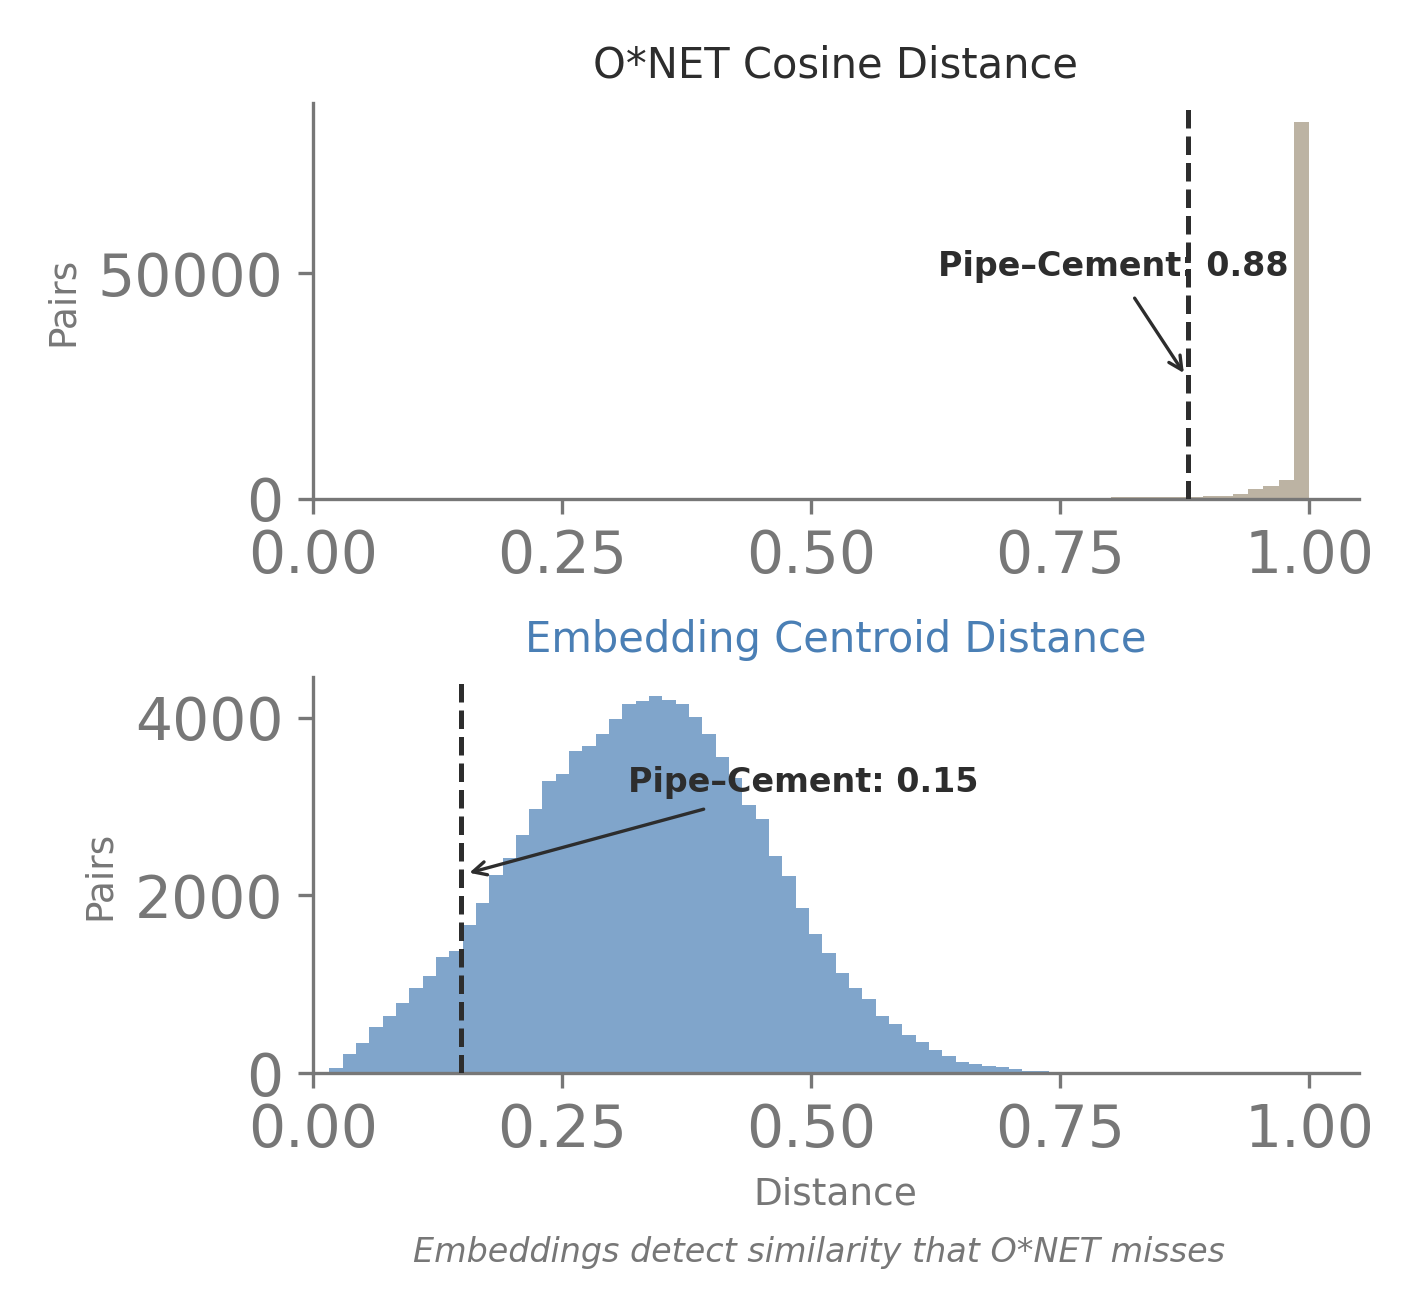
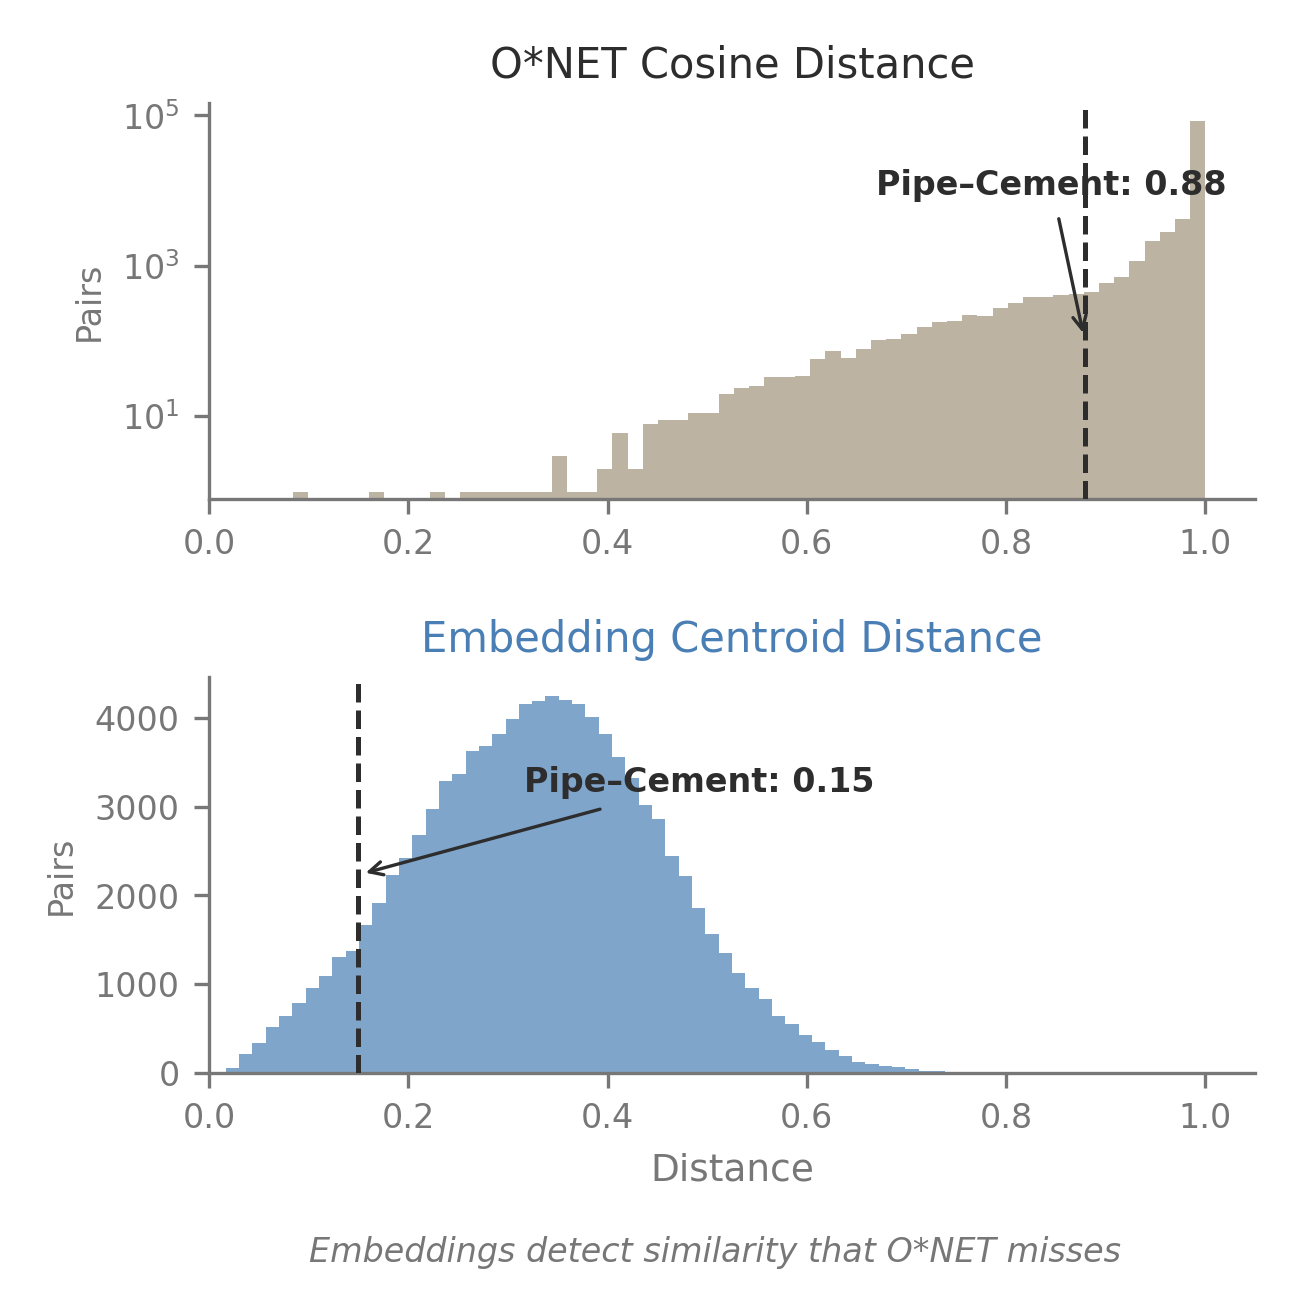
v0.7.9.1: Create fig4 (scope), fix fig5 centering/ellipses, fix fig6 log scale/sizing

diff --git a/figures/fig4_scope.py b/figures/fig4_scope.py
@@ -1,0 +1,59 @@
+"""
+Figure 4 — Supply-Demand Decomposition (scope)
+Target: Slide 7 ("What the Measure Captures")
+Data: Hardcoded from outputs/experiments/demand_probe_decomposition_v0703b.json
+"""
+import sys, os
+sys.path.insert(0, os.path.join(os.path.dirname(__file__), '..'))
+
+import matplotlib.pyplot as plt
+from figures.style import setup, bar_label
+from figures.style import PRIMARY, SECONDARY, DARK, MID
+
+font = setup()
+
+# === Data ===
+metrics = [
+    ("Demand only\n(BLS openings → aggregate inflows)",           0.798),
+    ("Per-origin geometry\n(embedding distance → destination ranking)", 0.128),
+    ("Aggregate geometry\n(embedding distance → total inflows)",   0.043),
+]
+
+# Reverse so top bar is demand (barh draws bottom-up)
+labels = [m[0] for m in metrics][::-1]
+values = [m[1] for m in metrics][::-1]
+colors = [PRIMARY, PRIMARY, SECONDARY]  # bottom two are geometry (PRIMARY), top is demand
+
+# === Figure ===
+bar_height = 0.55
+positions = [0, 1.2, 2.4]
+
+fig, ax = plt.subplots(figsize=(4.0, 3.8))
+
+bars = ax.barh(positions, values, color=colors, height=bar_height,
+               edgecolor='none', zorder=2)
+
+# Spec name labels
+for pos, label in zip(positions, labels):
+    ax.text(-0.02, pos, label, ha='right', va='center', fontsize=9,
+            color=DARK, fontweight='medium')
+
+# Value labels
+for pos, val in zip(positions, values):
+    bar_label(ax, val, pos, val, fmt='{:.2f}', fontsize=11)
+
+# Axes
+ax.set_xlim(0, 1.15)
+ax.set_ylim(-0.6, 3.2)
+ax.set_xticks([0, 0.5, 1.0])
+ax.set_xticklabels(['0', '0.50', '1.00'], fontsize=9)
+ax.set_yticks([])
+ax.set_xlabel("Spearman ρ", fontsize=11, labelpad=8)
+ax.tick_params(axis='y', length=0)
+ax.tick_params(axis='x', length=4)
+
+plt.tight_layout()
+plt.savefig('figures/fig4_scope.png', dpi=300, bbox_inches='tight',
+            facecolor='white', edgecolor='none')
+plt.close()
+print(f"Saved figures/fig4_scope.png  (font: {font})")

diff --git a/figures/fig6_embedding_similarity.py b/figures/fig6_embedding_similarity.py
@@ -41,15 +41,19 @@ fig.subplots_adjust(hspace=0.45)
 
 # --- Top panel: O*NET Cosine ---
 ax1.hist(onet_vals, bins=60, color=SECONDARY, alpha=0.7, edgecolor='none')
+ax1.set_yscale('log')
+ax1.set_ylim(bottom=0.8)
 ax1.axvline(d_onet_pair, color=DARK, linestyle='--', linewidth=1.2, zorder=3)
+fig.canvas.draw()
 ax1.annotate(f'Pipe\u2013Cement: {d_onet_pair:.2f}',
-             xy=(d_onet_pair, ax1.get_ylim()[1] * 0.3),
-             xytext=(-60, 25), textcoords='offset points',
+             xy=(d_onet_pair, 100),
+             xytext=(-50, 35), textcoords='offset points',
              fontsize=8, color=DARK, fontweight='bold',
              arrowprops=dict(arrowstyle='->', color=DARK, lw=0.8))
 ax1.set_title("O*NET Cosine Distance", fontsize=10, color=DARK, pad=6)
-ax1.set_ylabel('Pairs', fontsize=9, color=MID)
+ax1.set_ylabel('Pairs', fontsize=8, color=MID)
 ax1.set_xlim(0, 1.05)
+ax1.tick_params(axis='both', labelsize=8)
 
 # --- Bottom panel: Embedding Centroid ---
 ax2.hist(embed_vals, bins=60, color=PRIMARY, alpha=0.7, edgecolor='none')
@@ -62,9 +66,10 @@ ax2.annotate(f'Pipe\u2013Cement: {d_embed_pair:.2f}',
              fontsize=8, color=DARK, fontweight='bold',
              arrowprops=dict(arrowstyle='->', color=DARK, lw=0.8))
 ax2.set_title("Embedding Centroid Distance", fontsize=10, color=PRIMARY, pad=6)
-ax2.set_ylabel('Pairs', fontsize=9, color=MID)
+ax2.set_ylabel('Pairs', fontsize=8, color=MID)
 ax2.set_xlabel('Distance', fontsize=9, color=MID)
 ax2.set_xlim(0, 1.05)
+ax2.tick_params(axis='both', labelsize=8)
 
 # Subtitle
 fig.text(0.5, -0.04, 'Embeddings detect similarity that O*NET misses',

diff --git a/figures/fig5_shared_dwas.py b/figures/fig5_shared_dwas.py
@@ -38,7 +38,7 @@ cement_dwas = [
 # === Layout ===
 fig, ax = plt.subplots(figsize=(4.3, 4.2))
 ax.set_xlim(0, 10)
-ax.set_ylim(0, 10)
+ax.set_ylim(3.5, 10)
 ax.axis('off')
 
 # Node drawing helper
@@ -90,6 +90,12 @@ ax.text(5.0, 8.6, 'shared', ha='center', va='center',
         fontsize=7.5, color=MID, fontstyle='italic')
 ax.text(8.2, 8.6, 'unique', ha='center', va='center',
         fontsize=7.5, color=SECONDARY, fontstyle='italic')
+
+# Vertical ellipses indicating more DWAs exist
+ax.text(1.8, 8.25, '⋮', ha='center', va='center', fontsize=10, color=PRIMARY)
+ax.text(1.8, 4.35, '⋮', ha='center', va='center', fontsize=10, color=PRIMARY)
+ax.text(8.2, 8.25, '⋮', ha='center', va='center', fontsize=10, color=SECONDARY)
+ax.text(8.2, 4.35, '⋮', ha='center', va='center', fontsize=10, color=SECONDARY)
 
 # Subtitle
 ax.text(5.0, 3.8,

diff --git a/figures/README.md b/figures/README.md
@@ -5,11 +5,10 @@
 | fig1_ai_exposure.png | 2 — Motivation | 9.0″ × 6.5″ | Done |
 | fig2_pseudo_r2.png | 6 — Main Result | 9.0″ × 5.0″ | Done |
 | fig3_task_scatter.png | 3 — Tasks in Semantic Space | 6.0″ × 4.2″ | Done |
-| fig5_shared_dwas.png | 4 — Example (left panel) | 4.3″ × 4.2″ | NEW |
-| fig6_embedding_similarity.png | 4 — Example (right panel) | 4.5″ × 4.2″ | NEW |
-| fig7_sankey_pipeline.png | B1 — Data Pipeline (backup) | 9.0″ × 4.2″ | NEW |
-
-Note: fig4_scope.png (Slide 7) is TBD — not yet specified.
+| fig4_scope.png | 7 — What the Measure Captures | 4.0″ × 3.8″ | NEW |
+| fig5_shared_dwas.png | 4 — Example (left panel) | 4.3″ × 4.2″ | Done |
+| fig6_embedding_similarity.png | 4 — Example (right panel) | 4.5″ × 4.2″ | Done |
+| fig7_sankey_pipeline.png | B1 — Data Pipeline (backup) | 9.0″ × 4.2″ | Done |
 
 ## fig1 — AI Task Exposure
 - **Data:** Eloundou et al. (2023) γ = E1 + E2, averaged to 2-digit SOC
@@ -24,6 +23,10 @@ Note: fig4_scope.png (Slide 7) is TBD — not yet specified.
 - **Data:** MPNet embeddings of 30 selected DWAs, semantic anchor projection
 - **Source:** `fig3_selected_dwas.csv` (30 DWAs, 6 clusters)
 - **Takeaway:** Related tasks cluster in interpretable quadrants
+
+## fig4 — Supply-Demand Decomposition
+- **Data:** Hardcoded from `outputs/experiments/demand_probe_decomposition_v0703b.json`
+- **Takeaway:** Aggregate inflows are demand-dominated (ρ = 0.80); geometry captures per-origin pathway direction (ρ = 0.13)
 
 ## fig5 — Shared DWAs (Pipelayers vs Cement Masons)
 - **Data:** Hardcoded from O*NET Tasks-to-DWAs mapping

diff --git a/LEDGER.md b/LEDGER.md
@@ -1,6 +1,6 @@
 # LEDGER.md — Task-Space Oracle Research State
 
-**Current Version:** 0.7.9.0
+**Current Version:** 0.7.9.1
 **Last Updated:** 2026-03-09
 **Paper Draft:** `paper/main.tex`
 
@@ -763,6 +763,7 @@ Deprecated approaches. Do not retry.
 
 | Version | Date | Changes |
 |---------|------|---------|
+| 0.7.9.1 | 2026-03-09 | Create fig4 (scope), fix fig5 centering/ellipses, fix fig6 log scale/sizing. |
 | 0.7.9.0 | 2026-03-09 | New figures — fig5 (shared DWAs), fig6 (embedding similarity), fig7 (Sankey pipeline), fig3 resized to 6.0×4.2. |
 | 0.7.8.9 | 2026-03-09 | Remove unused experiments/, notebooks/, templates/ directories. |
 | 0.7.8.8 | 2026-03-09 | Final consistency pass — paper t-stat 33.8→33.7, β SE 0.004→0.0041, LEDGER 2×2 table asterisks, ground metric ratio annotations. |
